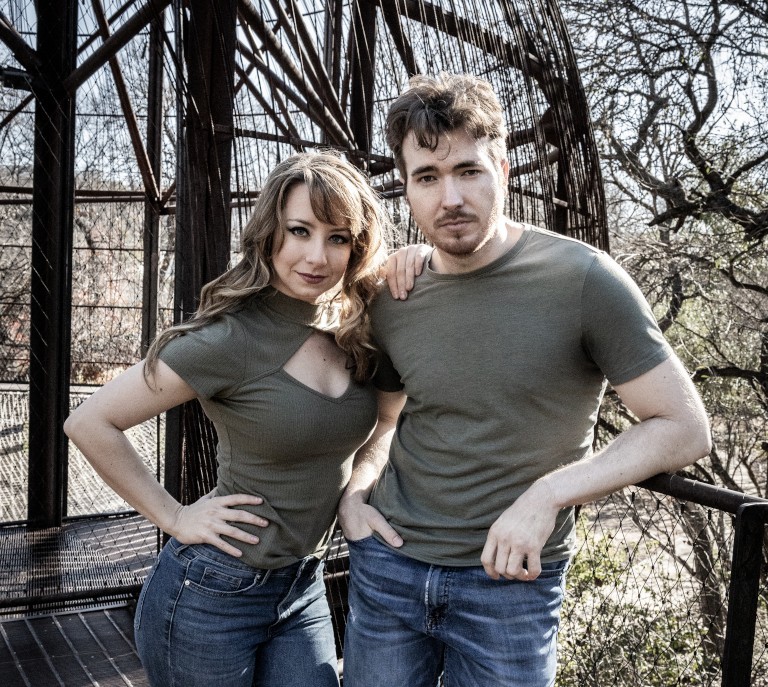
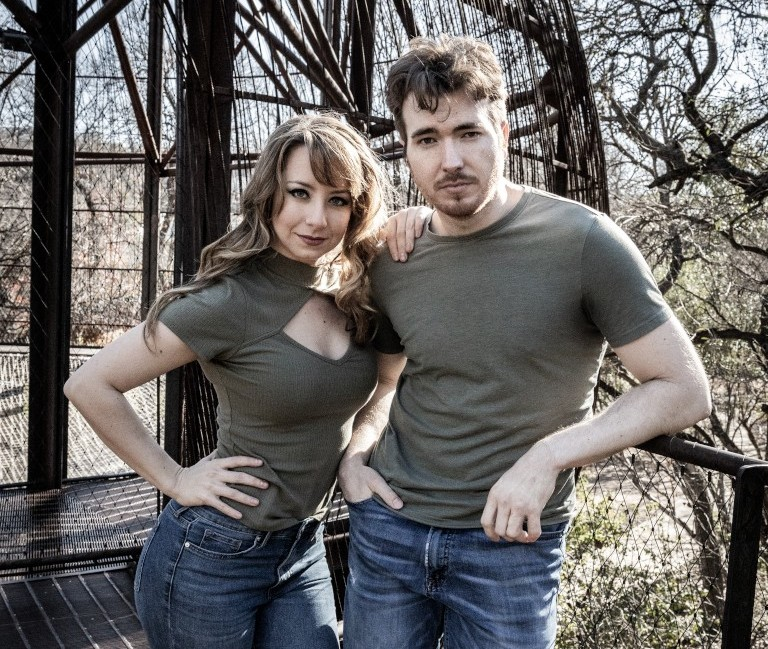
Staff photos

diff --git a/public/css/styles.css b/public/css/styles.css
@@ -149,7 +149,7 @@ p {
 /* STAFF */
 .staff-grid {
   display: grid;
-  grid-template-columns: repeat(4, 1fr);
+  grid-template-columns: repeat(6, 1fr);
   grid-template-rows: repeat(2, 280px);
   gap: 36px;
   margin-top: 32px;
@@ -180,7 +180,7 @@ p {
 
 .staff-cell.horizontal .staff-img {
   width: 100%;
-  height: 220px;
+  height: 100%;
   aspect-ratio: 5/3;
   object-fit: cover;
   max-width: 100%;
@@ -199,28 +199,28 @@ p {
 }
 
 .staff-cell-1 {
-  grid-column: 1 / 2;
-  grid-row: 1 / 2;
+  grid-column: 1 / 3;
+  grid-row: 2 / 3;
 }
 .staff-cell-2 {
-  grid-column: 2 / 4;
+  grid-column: 1 / 3;
   grid-row: 1 / 2;
 }
 .staff-cell-3 {
-  grid-column: 4 / 5;
+  grid-column: 3 / 5;
   grid-row: 1 / 2;
 }
 .staff-cell-4 {
-  grid-column: 1 / 2;
+  grid-column: 3 / 5;
   grid-row: 2 / 3;
 }
 .staff-cell-5 {
-  grid-column: 2 / 4;
+  grid-column: 5 / 7;
   grid-row: 2 / 3;
 }
 .staff-cell-6 {
-  grid-column: 4 / 5;
-  grid-row: 2 / 3;
+  grid-column: 5 / 7;
+  grid-row: 1 / 2;
 }
 
 .staff-4col-grid {